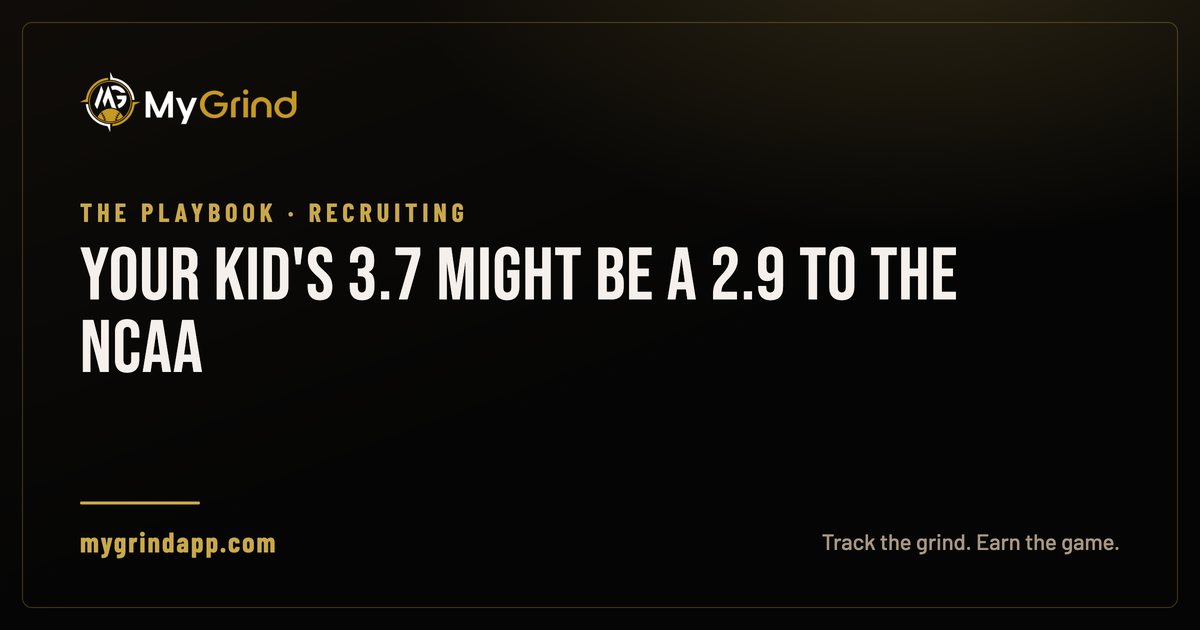
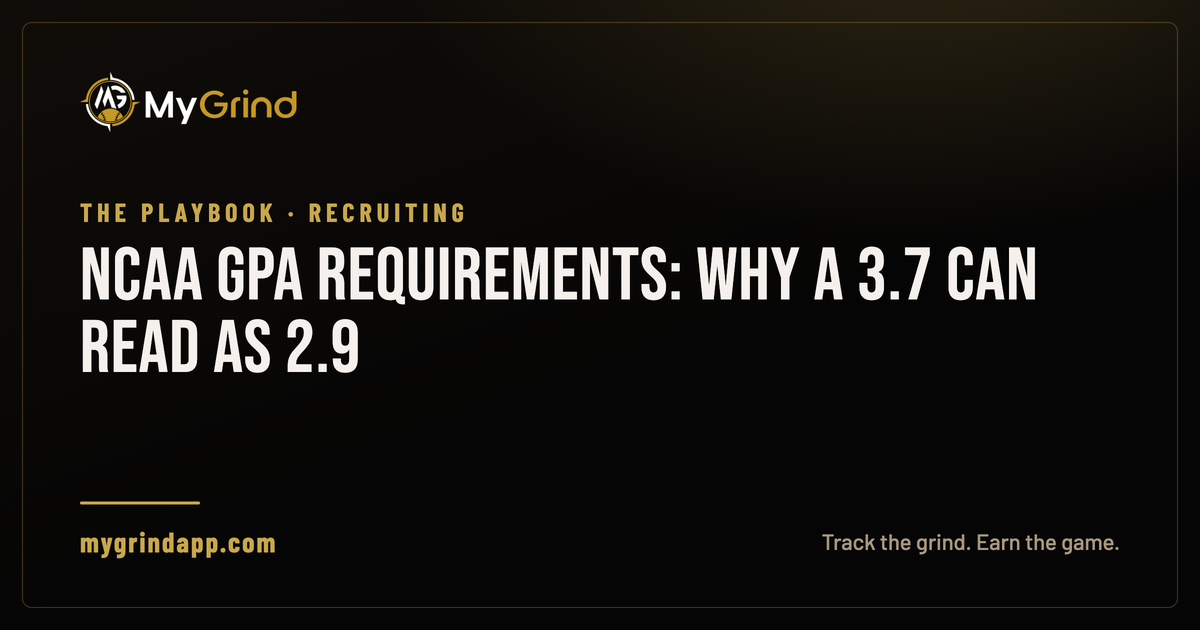
NCAA SEO push: answer-first requirements table + exact-match FAQs + authority links
The "ncaa gpa requirements" cluster earns ~90 impressions/day from page 2
(avg position 12.3) with 0 clicks. This pass makes the GPA guide the
definitive answer for that intent:

- Answer-first box in the first viewport: 2.3 D1 / 2.2 D2, plus a 5-row
  requirements table (D1 incl. academic-redshirt band, D2, D3, NAIA, NJCAA)
  built for the featured-snippet slot. Blog dark-theme tokens.
- Two FAQ entries added (visible + FAQPage schema), phrased to match the
  exact zero-click queries: "What is the NCAA minimum GPA?" and "What GPA
  do you need to be eligible for the NCAA?" (schema now 8 Q&As, parses).
- dateModified + visible byline bumped to 2026-07-02.
- Homepage authority links: the Playbook anchor now reads "NCAA GPA
  requirements: what your player actually needs" and the How-it-works
  step 2 links "NCAA GPA requirements" contextually (homepage = 614 of
  780 weekly views).
- sitemap lastmods refreshed for /, the GPA guide, the training-journal
  post, and terms (were stale; audit item).
- OG cover regenerated to match the 6/29 retitle ("NCAA GPA requirements:
  why a 3.7 can read as 2.9") — closes the open 6/29 item.

Manual follow-up (Coach): GSC URL inspection -> Request indexing for
/blog/ncaa-eligibility-gpa-guide.html.

Changed region(s): [[0.0617, 0.3921, 0.8633, 0.6032]]

diff --git a/blog/ncaa-eligibility-gpa-guide.html b/blog/ncaa-eligibility-gpa-guide.html
@@ -51,7 +51,7 @@
       "description": "NCAA core-course GPA requirements: 2.3 for D1, 2.2 for D2 on a sliding scale. Why a 3.7 report card can read as 2.9 to the NCAA, and how to keep your player eligible.",
       "image": "https://www.mygrindapp.com/assets/og/ncaa-eligibility-gpa-guide.png",
       "datePublished": "2026-05-29",
-      "dateModified": "2026-06-29",
+      "dateModified": "2026-07-02",
       "author": { "@type": "Person", "@id": "https://www.mygrindapp.com/#founder", "name": "Coach Mike Young", "alternateName": "Michael Young", "jobTitle": "Founder and Coach, MyGrind", "description": "35 years coaching youth baseball and softball.", "url": "https://www.mygrindapp.com/" },
       "publisher": {
         "@type": "Organization",
@@ -101,6 +101,16 @@
           "@type": "Question",
           "name": "When should we register with the NCAA Eligibility Center?",
           "acceptedAnswer": { "@type": "Answer", "text": "Register around sophomore year at eligibilitycenter.org, then confirm your high school's approved core-course list and fix any scheduling gaps while there is still time. Many recruits wait until a coach asks for their NCAA ID, which is far too late to correct a transcript problem." }
+        },
+        {
+          "@type": "Question",
+          "name": "What is the NCAA minimum GPA?",
+          "acceptedAnswer": { "@type": "Answer", "text": "The certification minimums are a 2.3 core-course GPA for Division I and 2.2 for Division II, on an unweighted 4.0 scale. A Division I athlete between 2.0 and 2.299 can qualify as an academic redshirt: they keep practice and scholarship but cannot compete their first season." }
+        },
+        {
+          "@type": "Question",
+          "name": "What GPA do you need to be eligible for the NCAA?",
+          "acceptedAnswer": { "@type": "Answer", "text": "For Division I, a 2.3 unweighted GPA in the 16 approved core courses with a matching test score on the sliding scale. For Division II, 2.2. Division III has no NCAA minimum; each school sets its own admission standards. Treat every minimum as a floor, not a goal, since competitive programs recruit well above them." }
         }
       ]
     }
@@ -126,9 +136,54 @@
   </nav>
 
   <h1>NCAA Eligibility GPA Requirements: What Your Player Actually Needs</h1>
-  <div class="article-meta">By Coach Mike Young &middot; 35 years coaching youth baseball &amp; softball &middot; Updated June 29, 2026 &middot; 8 min read</div>
+  <div class="article-meta">By Coach Mike Young &middot; 35 years coaching youth baseball &amp; softball &middot; Updated July 2, 2026 &middot; 8 min read</div>
 
   <article class="article-body">
+    <!-- Answer-first box (2026-07-02 SEO pass): the "ncaa gpa requirements"
+         cluster earns ~90 impressions/day from page 2 with 0 clicks — put
+         the number in the first viewport and give the requirements table
+         a shot at the featured snippet. -->
+    <div style="background:var(--card); border:1px solid var(--border); border-left:4px solid var(--gold); border-radius:6px; padding:16px 20px; margin:0 0 22px;">
+      <p style="margin:0 0 12px;"><strong>The short answer:</strong> the NCAA requires a minimum <strong>2.3 core-course GPA for Division I</strong> and <strong>2.2 for Division II</strong>, calculated on an unweighted 4.0 scale from 16 approved core courses only, balanced against test scores on a sliding scale. Your school's overall GPA is not the number that gets checked.</p>
+      <table style="width:100%; border-collapse:collapse; font-size:15px; line-height:1.5;">
+        <thead>
+          <tr>
+            <th style="text-align:left; padding:8px 10px; border-bottom:2px solid var(--gold); color:var(--gold);">Level</th>
+            <th style="text-align:left; padding:8px 10px; border-bottom:2px solid var(--gold); color:var(--gold);">Minimum core-course GPA</th>
+            <th style="text-align:left; padding:8px 10px; border-bottom:2px solid var(--gold); color:var(--gold);">What to know</th>
+          </tr>
+        </thead>
+        <tbody>
+          <tr>
+            <td style="padding:8px 10px; border-bottom:1px solid var(--border);">NCAA Division I</td>
+            <td style="padding:8px 10px; border-bottom:1px solid var(--border);"><strong>2.3</strong></td>
+            <td style="padding:8px 10px; border-bottom:1px solid var(--border);">Full qualifier. From 2.0 to 2.299 an athlete can be an academic redshirt: practice and scholarship, no first-season games.</td>
+          </tr>
+          <tr>
+            <td style="padding:8px 10px; border-bottom:1px solid var(--border);">NCAA Division II</td>
+            <td style="padding:8px 10px; border-bottom:1px solid var(--border);"><strong>2.2</strong></td>
+            <td style="padding:8px 10px; border-bottom:1px solid var(--border);">Full qualifier, on a sliding scale that weighs GPA against test scores.</td>
+          </tr>
+          <tr>
+            <td style="padding:8px 10px; border-bottom:1px solid var(--border);">NCAA Division III</td>
+            <td style="padding:8px 10px; border-bottom:1px solid var(--border);">No NCAA minimum</td>
+            <td style="padding:8px 10px; border-bottom:1px solid var(--border);">No Eligibility Center certification. Each school sets its own admission standards.</td>
+          </tr>
+          <tr>
+            <td style="padding:8px 10px; border-bottom:1px solid var(--border);">NAIA</td>
+            <td style="padding:8px 10px; border-bottom:1px solid var(--border);"><strong>2.0</strong></td>
+            <td style="padding:8px 10px; border-bottom:1px solid var(--border);">Plus the NAIA's additional criteria. Verify with the NAIA Eligibility Center.</td>
+          </tr>
+          <tr>
+            <td style="padding:8px 10px;">JUCO (NJCAA)</td>
+            <td style="padding:8px 10px;">No GPA minimum</td>
+            <td style="padding:8px 10px;">High school diploma or GED to enroll, then term-by-term academic standards.</td>
+          </tr>
+        </tbody>
+      </table>
+      <p style="margin:12px 0 0; font-size:13px; color:var(--grey, #999);">Checked against the NCAA Eligibility Center, July 2026. Always confirm the current standard at eligibilitycenter.org before a big decision.</p>
+    </div>
+
     <p>Most parents find out about NCAA eligibility too late. They spend years on travel ball, lessons, showcases, and recruiting videos, then a coach offers a spot and the family hits a wall they never saw coming: the player's transcript does not qualify.</p>
     <p>It happens more than you would think, and it happens to good students. The good news is that the academic side of recruiting is the most predictable part of this whole journey. The rules are written down. The math is knowable. If you start early and track it, your athlete will never be the kid who loses an offer over a class they could have retaken sophomore year.</p>
 
@@ -195,6 +250,8 @@
     <p><strong>What GPA do you need to play D1 baseball or softball?</strong><br>The commonly cited floor is a 2.3 core-course GPA for Division I and 2.2 for Division II, balanced against test scores on a sliding scale. Treat them as floors, not goals, and verify the current standard at the source.</p>
     <p><strong>What is the 10/7 rule?</strong><br>Ten of the 16 core courses must be done before senior year, 7 of them in English, math, or science, and those grades lock once senior year starts.</p>
     <p><strong>When should we register with the Eligibility Center?</strong><br>Around sophomore year, then confirm your school's approved course list right after.</p>
+    <p><strong>What is the NCAA minimum GPA?</strong><br>A 2.3 core-course GPA for Division I and 2.2 for Division II. Between 2.0 and 2.299, a D1 athlete can be an academic redshirt: practice and scholarship stay, first-season games do not.</p>
+    <p><strong>What GPA do you need to be eligible for the NCAA?</strong><br>For D1, a 2.3 unweighted GPA across the 16 core courses with a matching sliding-scale test score. For D2, 2.2. D3 has no NCAA minimum, and each school decides admission on its own.</p>
 
     <h2>Start early, stay eligible</h2>
     <p>Eligibility is not the scary part of recruiting. It is the part you can fully control if you start paying attention as a freshman instead of a senior. Know which classes count, watch the unweighted core-course GPA, beat the 10/7 lock, register with the Eligibility Center on time, and always verify the current rules at the official source before any big decision.</p>

diff --git a/index.html b/index.html
@@ -1709,7 +1709,7 @@ fbq('init','326334441984368');fbq('track','PageView');
       <div class="how-step">
         <div class="step-num">2</div>
         <h3>Stay eligible</h3>
-        <p>Track classes and grades alongside the training. Always know where you stand for NCAA, NAIA, and JuCo eligibility, before it ever becomes a problem.</p>
+        <p>Track classes and grades alongside the training. Always know where you stand on <a href="/blog/ncaa-eligibility-gpa-guide.html" style="color:inherit; text-decoration:underline; text-underline-offset:2px;">NCAA GPA requirements</a>, NAIA, and JuCo eligibility, before it ever becomes a problem.</p>
       </div>
       <div class="how-step">
         <div class="step-num">3</div>
@@ -1817,7 +1817,7 @@ fbq('init','326334441984368');fbq('track','PageView');
     <p class="section-sub">Straight talk from Coach on stats, eligibility, and building a player.</p>
     <ul class="playbook-list">
       <li><a href="/blog/baseball-softball-stats-to-track.html">Baseball and softball stats worth tracking</a></li>
-      <li><a href="/blog/ncaa-eligibility-gpa-guide.html">NCAA eligibility GPA: a parent's guide</a></li>
+      <li><a href="/blog/ncaa-eligibility-gpa-guide.html">NCAA GPA requirements: what your player actually needs</a></li>
       <li><a href="/blog/how-to-keep-a-training-journal.html">How to keep a training journal that sticks</a></li>
     </ul>
     <a class="playbook-all" href="/blog/">Read the Playbook &rarr;</a>

diff --git a/scripts/build_og.py b/scripts/build_og.py
@@ -41,7 +41,7 @@ CARDS = [
      "title": "The books & gear I recommend"},
     {"slug": "ncaa-eligibility-gpa-guide",
      "eyebrow": "The Playbook · Recruiting",
-     "title": "Your kid's 3.7 might be a 2.9 to the NCAA"},
+     "title": "NCAA GPA requirements: why a 3.7 can read as 2.9"},
     {"slug": "choosing-high-school-baseball-softball",
      "eyebrow": "The Playbook · High School",
      "title": "Private vs public: the playing-time math"},